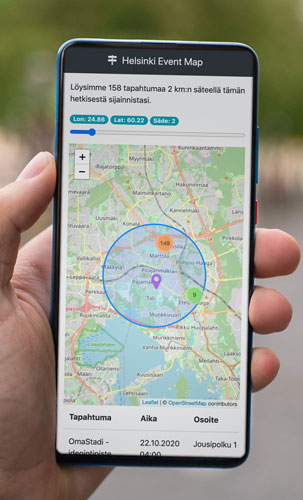
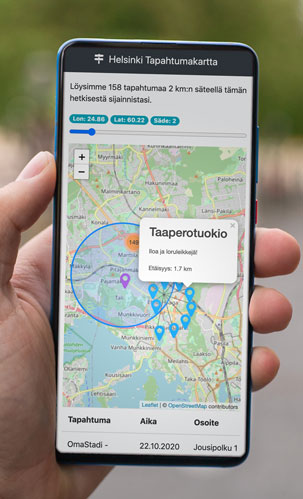
img

Changed region(s): [[0.2079, 0.0902, 0.8317, 0.9319], [0.2079, 0.2405, 0.2376, 0.2705]]

diff --git a/src/components/NavbarMain.js b/src/components/NavbarMain.js
@@ -11,7 +11,7 @@ const NavbarMain = () => {
           name="map-signs"
           style={{ color: 'rgb(250,250,250)', marginRight: '10px' }}
         />
-        Helsinki Event Map
+        Helsinki Tapahtumakartta
       </Navbar.Brand>
     </Navbar>
   )
